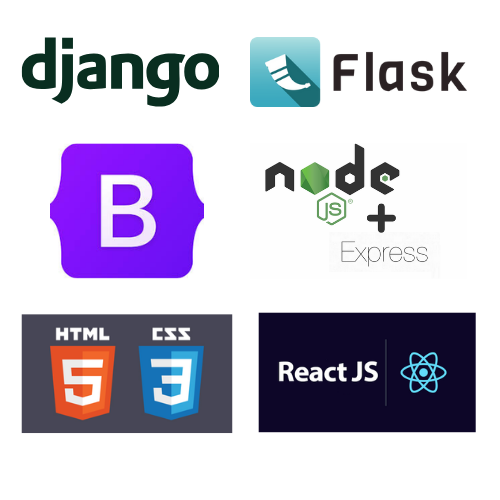
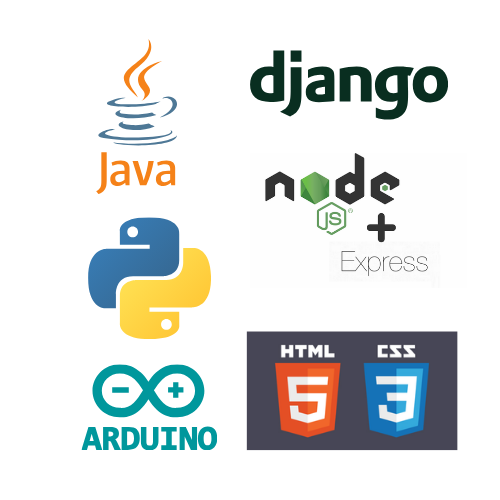
commiting to github for application

diff --git a/index.html b/index.html
@@ -48,12 +48,12 @@
 								<h3>Web Development</h3>
 								<span class="image main"><img src="images/tech-stack.png" style="width: 300px; height: 300px; margin-left: auto; margin-right: auto;" /></span>
 									<ul>
-										<li>Django Framework</li>
-										<li>Flask</li>
+										<li>Java</li>
+										<li>Boostrap</li>
 										<li>Node.js Express</li>
-										<li>Bootstrap</li>
+										<li>Arduino C++</li>
 										<li>HTML + CSS</li>
-										<li>React.js</li>
+										<li>Python</li>
 									</ul>
 								<h3>Data Analytics</h3>
 								<span class="image main"><img src="images/tech-stack 2.png" style="width: 300px; height: 300px; margin-left: auto; margin-right: auto;" /></span>
@@ -104,9 +104,23 @@
 								<span class="image main"><img src="images/quizzer-app.png"/></span>
 								<span class="image main"><img src="images/quizzer-app-2.png"/></span>
 								<h3><a href="https://quizzer-cnsc-128901a3839e.herokuapp.com/">Quizzer App for Board Examination</a></h3>
+								<h5>Python - Django - PostgreSQL</h5>
 								<p>This app helps students to assess their capability to take the board examination. This web app makes a custom quiz and show them their stats based on topics and subjects of the student.</p>
 								<p>This app was deployed on November 2, 2024 and currently has 30 active users. </p>
+								<hr>
+								<h3><a href="https://github.com/Kristommm/ArduinoProject">Portable soil NPK sensor - Arduino</a></h3>
+								<h5>C++ - Arduino</h5>
+								<p>This arduino project targets farmers in the country. This soil npk sensor project is affordable and easy to use.</p>
+								<h3><a href="https://github.com/Kristommm/DiaryProject">Personal Diary</a></h3>
+								<h5>Java - SwingUI - MongoDB</h5>
+								<p>This project is for personal use. This uses MongoDB as a database.</p>
+								<h3><a href="https://github.com/Kristommm/PlantDailyReportApp">Plant Daily Report App</a></h3>
+								<h5>Java - Spring Boot - PostgreSQL</h5>
+								<p>This project is soon the be used in the chemical plant i'm currently working for. This will decrease the time backtracking reports.</p>
+
 							</article>
+
+							
 
 						<!-- Elements -->
 							<article id="elements">
